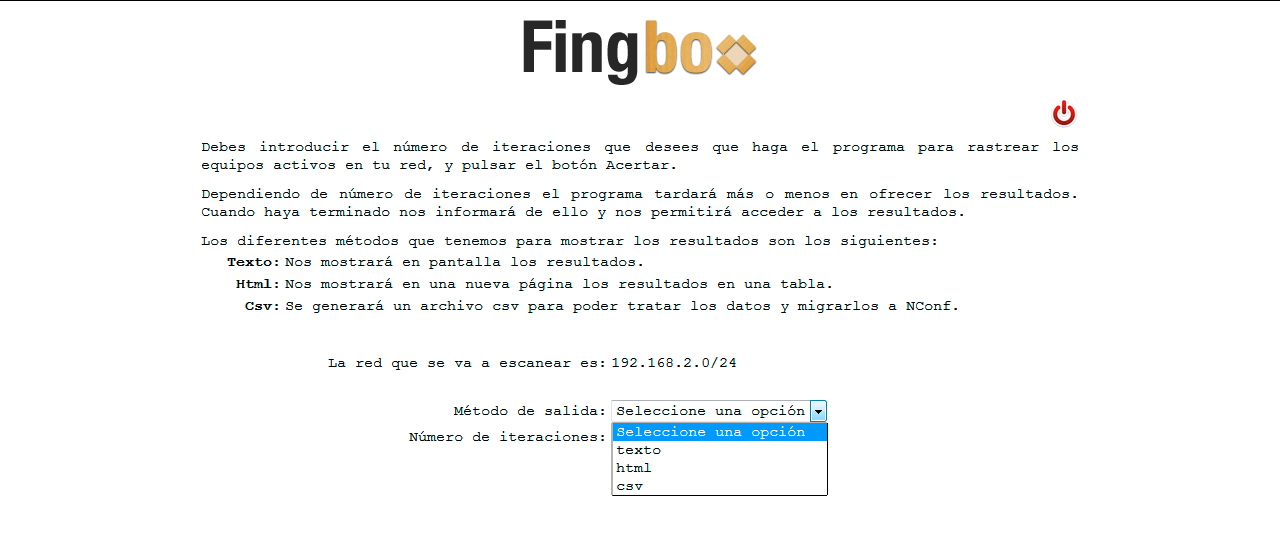
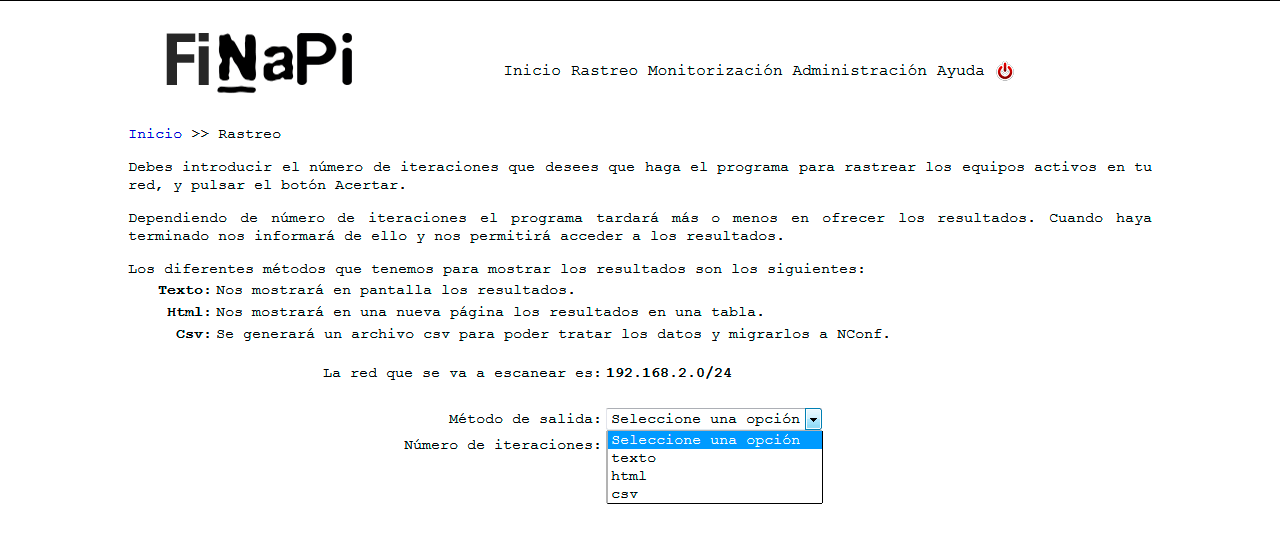
V2 definitiva

diff --git a/finapi/resultados.php b/finapi/resultados.php
@@ -1,39 +1,35 @@
 <?php
+session_start();
+if(empty($_SESSION["usuario"]))
+	header ('Location: rastreo.php');
+
 $time = microtime();
 $time = explode(' ', $time);
 $time = $time[1] + $time[0];
 $start = $time;
 
-session_start();
-if(empty($_SESSION["usuario"]))
+if (isset($_COOKIE["metodo"]))
+{
+	$metodorecibido = $_COOKIE["metodo"];
+	if ($metodorecibido == "texto")
+		$metodo = 1;
+	else if ($metodorecibido == "html")
+		$metodo = 2;
+	else if ($metodorecibido == "csv")
+		$metodo = 3;
+	
+	$iteraciones = $_COOKIE["iteraciones"];
+	if ($iteraciones != 1)
+		$subf = "iteraciones";
+	else
+		$subf = "iteración";
+}
+else
 	header ('Location: rastreo.php');
 
-else
-{
-	include_once 'includes/class/comando.php';
-	include_once 'includes/class/linea.php';
-
-	if (isset($_COOKIE["metodo"]))
-	{
-		$metodorecibido = $_COOKIE["metodo"];
-		if ($metodorecibido == "texto")
-			$metodo = 1;
-		else if ($metodorecibido == "html")
-			$metodo = 2;
-		else if ($metodorecibido == "csv")
-			$metodo = 3;
-		
-		$iteraciones = $_COOKIE["iteraciones"];
-		if ($iteraciones != 1)
-			$subf = "iteraciones";
-		else
-			$subf = "iteración";
-	}
-	else
-		header ('Location: rastreo.php');
-}
-
+//print_r($_COOKIE);
 ?>
+
 <html xmlns="http://www.w3.org/1999/xhtml">
 <head>
 <meta http-equiv="Content-Type" content="text/html; charset=utf-8" />
@@ -48,28 +44,31 @@ else
 <?php
 include 'header.php';
 ?>
+
 <div><a href="finapi.php" title="Inicio" target="_self">Inicio</a> >>  <a href="rastreo.php" title="Rastreo" target="_self">Rastreo</a> >> Resultados
 </div>
 <div>
 	<p align="justify">
-      <?php
-		  echo "A continuación de muestran los resultados en formato " . $metodorecibido . " con "  . $iteraciones . " " . $subf . " :";
-	  ?>
+      	<?php
+		echo "A continuación de muestran los resultados en formato " . $metodorecibido . " con "  . $iteraciones . " " . $subf . " :";
+	  	?>
      </p>
 </div>
 <div>
     	<?php
-			$comando = new Comando(1);
-			$comando->setiteraciones($iteraciones);
-			$comando->ejecutarcomando($metodo);
+		include_once 'includes/class/comando.php';
+		include_once 'includes/class/linea.php';
+		$comando = new Comando(1);
+		$comando->setiteraciones($iteraciones);
+		$comando->ejecutarcomando($metodo);
 
-			if ($metodo == 3)
-			{
-				$id = 1;
-				$nombre_fichero = 'includes/archives/salida.txt';
-				$linea = new LineaFing();
-				$linea->setnombre_fichero($nombre_fichero);
-				$lineafingleida = $linea->generarlineastabla();
+		if ($metodo == 3)
+		{
+			$id = 1;
+			$nombre_fichero = 'includes/archives/salida.txt';
+			$linea = new LineaFing();
+			$linea->setnombre_fichero($nombre_fichero);
+			$lineafingleida = $linea->generarlineastabla();
 		?>
 		<div align="justify">Puede modificar los valores de los campos que se muestran en amarillo. Seleccione los host que desea exportar y pulse el botón <em>Exportar datos</em> para transferirlos a NConf.<p></div>
         <div align="center">
@@ -82,27 +81,25 @@ include 'header.php';
 					<th>IP</th>
 				</tr>
 		<?php
-			foreach($lineafingleida as $linea)
+		foreach($lineafingleida as $linea)
+		{
+			$ip = $linea[0];
+			if (empty($linea[4]))
+				$nombre = "host" . $id;
+			else
+				$nombre = $linea[4];
+			$alias = $linea[6];
+			if (($ip != "")) 
 			{
-				$ip = $linea[0];
-				if (empty($linea[4]))
-					$nombre = "host" . $id;
-				else
-					$nombre = $linea[4];
-				$alias = $linea[6];
-				if (($ip != "")) 
-				{
-					echo "<tr>
-						<td><input type='checkbox' name='seleccion" . $id . "' id='seleccion" . $id . "' /></td>
-						<td><input class='Texto' type='text' size='20' name='nombre" . $id . "' id='nombre" . $id . "' value='" . $nombre . "' style='background-color:#FFC' /></td>
-						<td><input class='Texto' type='text' size='20' name='alias" . $id . "' id='alias" . $id . "' value='" . $alias . "' style='background-color:#FFC' /></td>
-						<td><input class='Texto' type='text' name='ip" . $id ."' id='ip" . $id . "' value='" . $ip . "' readonly='readonly' /></td>
-						</tr>";
-					$id++;
-				}
-			
+				echo "<tr>
+					<td><input type='checkbox' name='seleccion" . $id . "' id='seleccion" . $id . "' /></td>
+					<td><input class='Texto' type='text' size='20' name='nombre" . $id . "' id='nombre" . $id . "' value='" . $nombre . "' style='background-color:#FFC' /></td>
+					<td><input class='Texto' type='text' size='20' name='alias" . $id . "' id='alias" . $id . "' value='" . $alias . "' style='background-color:#FFC' /></td>
+					<td><input class='Texto' type='text' name='ip" . $id ."' id='ip" . $id . "' value='" . $ip . "' readonly='readonly' /></td>
+					</tr>";
+				$id++;
 			}
-			
+		}	
 		?>
     		</table>
    	    	<p><input type='hidden' name='contador' id='contador' value='<?php echo"$id"; ?>'> <input type='submit' name='Enviar_a_Nconf' id='Enviar_a_Nconf' value='Exportar datos' /><p>

diff --git a/finapi/generar.php b/finapi/generar.php
@@ -29,9 +29,46 @@ $(document).ready(function(){
 
 <body id="contenedorweb" class="texto">
 <div id="wrapper">
-<?php
-include 'header.php';
-?>
+<div>
+<table width="100%" border="0" cellspacing="0px">
+  <tr>
+    <td>&nbsp;</td>
+  </tr>
+  <tr>
+    <td><img src="includes/images/finapi.png" width="265" height="80" alt="FiNaPi" /></td>
+    <td align="right">
+    <div id="menu">
+		<ul>
+  			<li class="nivel1"><a href="finapi.php" title="Inicio" target="_self" class="nivel1">Inicio</a></li>
+			<li class="nivel1"><a href="rastreo.php" title="Rastreo" target="_self" class="nivel1">Rastreo</a></li>
+			<li class="nivel1"><a href="#" title="Monitorización" class="nivel1">Monitorización</a>
+<!--[if lte IE 6]><a href="#" class="nivel1ie">Opción 3<table class="falsa"><tr><td><![endif]-->
+				<ul>
+					<li><a href="/nconf" title="NConf">NConf</a></li>
+					<li><a href="/nagios" title="Nagios">Nagios</a></li>
+					<li><a href="/nagvis" title="NagVis">NagVis</a></li>
+				</ul>
+<!--[if lte IE 6]></td></tr></table></a><![endif]-->
+			</li>
+			<li class="nivel1"><a href="#" class="nivel1">Administración</a>
+<!--[if lte IE 6]><a href="#" class="nivel1ie">Opción 4<table class="falsa"><tr><td><![endif]-->
+				<ul>
+					<li><a href="/phpmyadmin" title="PhpmyAdmin">Phpmyadmin</a></li>
+					<li><a href="/raspcontrol" title="Raspcontrol">RaspControl</a></li>
+				</ul>
+<!--[if lte IE 6]></td></tr></table></a><![endif]-->
+			</li>
+  			<li class="nivel1"><a href="ayuda.php" title="Ayuda" target="_self" class="nivel1">Ayuda</a></li>
+            <li class="nivel1"><a href="login.php" title="Cerrar Sesión" target="_self" class="nivel1"><img src='includes/images/shut_down.png' alt='Cerrar Sesión' name='cerrarsesion' width='20' height='20' id='cerrarsesion' /></a></li>
+		</ul>
+    </div>
+    </td>
+  </tr>
+  <tr>
+    <td>&nbsp;</td>
+  </tr>
+</table>
+</div>
 </div>
 <div id="layer">
 	<div id="layerc">

diff --git a/finapi/anconf.php b/finapi/anconf.php
@@ -1,20 +1,22 @@
 <?php
+session_start();
+if(empty($_SESSION["usuario"]))
+	header ('Location: rastreo.php');
+	
 $time = microtime();
 $time = explode(' ', $time);
 $time = $time[1] + $time[0];
 $start = $time;
 
-session_start();
-if(empty($_SESSION["usuario"]))
-	header ('Location: rastreo.php');
+ini_set('track_errors', 1);
 
-	//print_r($_COOKIE);
-	$enviado = $_COOKIE['enviado'];
-	$nombre_array = unserialize ($_COOKIE["nombre"]);
-	$alias_array = unserialize ($_COOKIE["alias"]);
-	$ip_array = unserialize ($_COOKIE["ip"]);	
-	$cuantos = count($nombre_array);
+$enviado = $_COOKIE['enviado'];
+$nombre_array = unserialize ($_COOKIE["nombre"]);
+$alias_array = unserialize ($_COOKIE["alias"]);
+$ip_array = unserialize ($_COOKIE["ip"]);	
+$cuantos = count($nombre_array);
 ?>
+
 <html xmlns="http://www.w3.org/1999/xhtml">
 <head>
 <meta http-equiv="Content-Type" content="text/html; charset=utf-8" />
@@ -30,18 +32,19 @@ $(window).load(function() {
 </script>
 </head>
 <body  id="contenedorweb" class="texto">
-<?php
-ini_set('track_errors', 1);
-include 'header.php';
 
-include_once 'includes/class/linea.php';
-include_once 'includes/class/archivo.php';
+<?php
+include 'header.php';
 ?>
 
 <div><a href="rastreo.php" title="Inicio" target="_self">Inicio</a> >>  <a href="rastreo.php" title="Rastreo" target="_self">Rastreo</a> >> <a href="resultados.php" title="Resultados" target="_self">Resultados</a> >> Resultado de la Exportación
 </div>
 <div>
+
 <?php
+	include_once 'includes/class/linea.php';
+	include_once 'includes/class/archivo.php';
+
 	$linea1 = new Lineacsv();
 	$file = fopen("includes/archives/nconf.csv", "w");
 	if (!$file) {
@@ -80,6 +83,7 @@ $total_time = round(($finish - $start), 4);
 echo '<span class="texto">Exportación realizada en '.$total_time.' segundos.</span>';
 echo "</td></tr></table></div>";	
 ?>
+
 </div>
 </body>
 </html>

diff --git a/finapi/exportar.php b/finapi/exportar.php
@@ -54,9 +54,39 @@ $(document).ready(function(){
 
 <body id="contenedorweb" class="texto">
 <div id="wrapper">
-<?php
-include 'header.php';
-?>
+<div>
+<table width="100%" border="0" cellspacing="0px">
+  <tr>
+    <td>&nbsp;</td>
+  </tr>
+  <tr>
+    <td><img src="includes/images/finapi.png" width="265" height="80" alt="FiNaPi" /></td>
+    <td align="right">
+    <div id="menu">
+		<ul>
+  			<li class="nivel1"><a href="finapi.php" title="Inicio" target="_self" class="nivel1">Inicio</a></li>
+			<li class="nivel1"><a href="rastreo.php" title="Rastreo" target="_self" class="nivel1">Rastreo</a></li>
+			<li class="nivel1"><a href="#" title="Monitorización" class="nivel1">Monitorización</a>
+<!--[if lte IE 6]><a href="#" class="nivel1ie">Opción 3<table class="falsa"><tr><td><![endif]-->
+				<ul>
+					<li><a href="/nconf" title="NConf">NConf</a></li>
+					<li><a href="/nagios" title="Nagios">Nagios</a></li>
+					<li><a href="/nagvis" title="NagVis">NagVis</a></li>
+				</ul>
+<!--[if lte IE 6]></td></tr></table></a><![endif]-->
+			</li>
+			<li class="nivel1"><a href="#" class="nivel1">Administración</a>
+<!--[if lte IE 6]><a href="#" class="nivel1ie">Opción 4<table class="falsa"><tr><td><![endif]-->
+				<ul>
+					<li><a href="/phpmyadmin" title="PhpmyAdmin">Phpmyadmin</a></li>
+					<li><a href="/raspcontrol" title="Raspcontrol">RaspControl</a></li>
+				</ul>
+<!--[if lte IE 6]></td></tr></table></a><![endif]-->
+			</li>
+  			<li class="nivel1"><a href="ayuda.php" title="Ayuda" target="_self" class="nivel1">Ayuda</a></li>
+            <li class="nivel1"><a href="login.php" title="Cerrar Sesión" target="_self" class="nivel1"><img src='includes/images/shut_down.png' alt='Cerrar Sesión' name='cerrarsesion' width='20' height='20' id='cerrarsesion' /></a></li>
+		</ul>
+    </div>
 </div>
 <div id="layer">
 	<div id="layerc">

diff --git a/finapi/header.php b/finapi/header.php
@@ -29,13 +29,12 @@
 			</li>
   			<li class="nivel1"><a href="ayuda.php" title="Ayuda" target="_self" class="nivel1">Ayuda</a></li>
             <li class="nivel1"><?php
-			if (isset($result))
+			if (!empty($_SESSION["usuario"]))
 			{
 				echo "<a href='login.php?funcion=cerrarSesion' title='Cerrar Sesión' class='nivel1'><img src='includes/images/shut_down.png' alt='Cerrar Sesión' name='cerrarsesion' width='20' height='20' id='cerrarsesion' /></a>\n";
 			}
 			else
 			{
-				//echo "<img src='includes/images/blanco.png' width='20' height='20'/>";
 				echo "<a href='login.php' target='_self' title='Login' class='nivel1'><img src='includes/images/login.png' alt='Iniciar Sesión' name='login' width='20' height='20' id='login' /></a>\n";
 			}
 		?></li>

diff --git a/finapi/finapi.php b/finapi/finapi.php
@@ -12,6 +12,7 @@
 <?php
 include 'header.php';
 ?>
+
 <div>Inicio</div>
 
 <div align="left"><h1>Bienvenidos a FiNaPi</h1></div>
